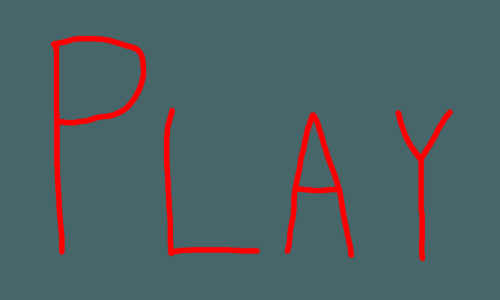
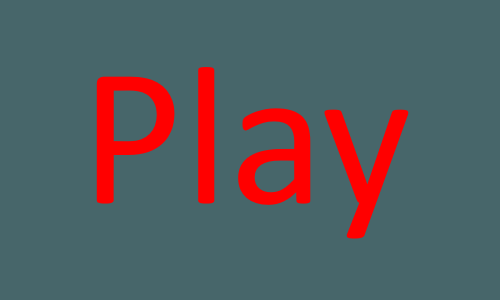
Pause Menu + Main Menu + Remade button assets

Changed region(s): [[0.39, 0.21, 0.93, 0.87], [0.09, 0.12, 0.54, 0.87]]

diff --git a/source/World.cpp b/source/World.cpp
@@ -12,14 +12,18 @@ World::World(Engine& eng, VolumeManager& vm, Clock& clock)
 	highscoreAmount(0),
 	limitedArrowsAmount(5),
 	gameOver(false),
+	activePauseMenu(false),
 	activeMainMenu(true),
 	resetKeyEnabled(false)
 {
 	arrowTexture.loadFromFile("Assets/Arrow.png");
 	backgroundTexture.loadFromFile("Assets/RedBackground.png");
+	pauseBackgroundTexture.loadFromFile("Assets/PauseMenuBackground.png");
 	retryTexture.loadFromFile("Assets/RetryButton.png");
 	quitTexture.loadFromFile("Assets/QuitButton.png");
 	playTexture.loadFromFile("Assets/PlayButton.png");
+	mainMenuTexture.loadFromFile("Assets/MainMenuButton.png");
+	resumeTexture.loadFromFile("Assets/ResumeButton.png");
 	playerHappy.loadFromFile("Assets/PlayerHappy.png");
 	playerSad.loadFromFile("Assets/PlayerSad.png");
 	enemyHappy.loadFromFile("Assets/EnemyHappy.png");
@@ -80,26 +84,43 @@ World::World(Engine& eng, VolumeManager& vm, Clock& clock)
 
 	// Create retrySprite
 	retrySprite.setTexture(retryTexture);
-	retrySprite.setScale(0.5, 0.5);
-	retrySprite.setPosition(370, 410);
+	retrySprite.setScale(0.45, 0.45);
+	retrySprite.setPosition(370, 510);
 
 	// Create quitSprite
 	quitSprite.setTexture(quitTexture);
-	quitSprite.setScale(0.5, 0.5);
-	quitSprite.setPosition(670, 410);
+	quitSprite.setScale(0.45, 0.45);
+	quitSprite.setPosition(790, 510);
 	#pragma endregion SetupGameOver
 
 	#pragma region SetupMainMenu
-	// Create retrySprite
+	// Create backgroundSprite
 	backgroundSprite.setTexture(backgroundTexture);
 	backgroundSprite.setScale(0.75, 0.75);
 	backgroundSprite.setPosition(0, 0);
 	
 	// Create playSprite
 	playSprite.setTexture(playTexture);
-	playSprite.setScale(0.5, 0.5);
-	playSprite.setPosition(370, 410);
+	playSprite.setScale(0.45, 0.45);
+	playSprite.setPosition(370, 510);
 	#pragma endregion SetupMainMenu
+
+	#pragma region SetupPauseMenu
+	// Create pauseBackgroundSprite
+	pauseBackgroundSprite.setTexture(pauseBackgroundTexture);
+	pauseBackgroundSprite.setScale(0.667, 0.667);
+	pauseBackgroundSprite.setPosition(0, 0);
+
+	// Create mainMenuSprite
+	mainMenuSprite.setTexture(mainMenuTexture);
+	mainMenuSprite.setScale(0.45, 0.45);
+	mainMenuSprite.setPosition(260, 510);
+
+	// Create resumeSprite
+	resumeSprite.setTexture(resumeTexture);
+	resumeSprite.setScale(0.45, 0.45);
+	resumeSprite.setPosition(315, 340);
+	#pragma endregion SetupPauseMenu
 
 	// Creating World
 	b2WorldDef worldDef = b2DefaultWorldDef();
@@ -376,7 +397,7 @@ void World::Update()
 	}
 
 	// Arrow Spawning
-	if (!gameOver && !activeMainMenu)
+	if (!gameOver && !activePauseMenu && !activeMainMenu)
 	{
 		if (sf::Mouse::isButtonPressed(sf::Mouse::Left))
 		{
@@ -569,6 +590,84 @@ void World::Reset()
 	enemy.setTexture(enemyHappy);
 }
 
+void World::PauseMenu()
+{
+	sf::Vector2i mousePixelPos = sf::Mouse::getPosition(engine.window);
+	sf::Vector2f mousePos = engine.window.mapPixelToCoords(mousePixelPos);
+
+	engine.window.draw(pauseBackgroundSprite);
+	engine.window.draw(mainMenuSprite);
+	engine.window.draw(resumeSprite);
+	engine.window.draw(quitSprite);
+
+	// Waits 0.1s before the play button works
+	if (clock.WaitForReset(0.1f))
+	{
+		activePauseMenu = false;
+		clock.StopClock();
+	}
+
+	// Main Menu Button
+	if (mainMenuSprite.getGlobalBounds().contains(mousePos))
+	{
+		mainMenuSprite.setColor(sf::Color::Green);
+		if (sf::Mouse::isButtonPressed(sf::Mouse::Left))
+		{
+			if (!keyPressedLeftClick)
+			{
+				activePauseMenu = false;
+				activeMainMenu = true;
+				keyPressedLeftClick = true;
+			}
+		}
+		else
+		{
+			keyPressedLeftClick = false;
+		}
+	}
+	else
+	{
+		mainMenuSprite.setColor(sf::Color::Red);
+	}
+
+	// Resume Button
+	if (resumeSprite.getGlobalBounds().contains(mousePos))
+	{
+		resumeSprite.setColor(sf::Color::Green);
+		if (sf::Mouse::isButtonPressed(sf::Mouse::Left))
+		{
+			if (!keyPressedLeftClick)
+			{
+				clock.StartClock();
+				keyPressedLeftClick = true;
+			}
+		}
+		else
+		{
+			keyPressedLeftClick = false;
+		}
+	}
+	else
+	{
+		resumeSprite.setColor(sf::Color::Red);
+	}
+
+	// Quit Button
+	if (quitSprite.getGlobalBounds().contains(mousePos))
+	{
+		quitSprite.setColor(sf::Color::Green);
+		if (sf::Mouse::isButtonPressed(sf::Mouse::Left))
+		{
+			std::cout << "Quit Game" << "\n";
+			engine.window.close();
+		}
+	}
+	else
+	{
+		quitSprite.setColor(sf::Color::Red);
+	}
+}
+
 void World::MainMenu()
 {
 	sf::Vector2i mousePixelPos = sf::Mouse::getPosition(engine.window);
@@ -624,22 +723,23 @@ void World::MainMenu()
 	}
 }
 
-void World::ToggleMainMenu()
+void World::ToggleMenu()
 {
 	if (sf::Keyboard::isKeyPressed(sf::Keyboard::Escape))
 	{
 		if (!keyPressedEscape)
 		{
-			if (activeMainMenu)
+			if (activePauseMenu || activeMainMenu)
 			{
-				std::cout << "Main Menu Disabled" << "\n";
+				std::cout << "Menu Disabled" << "\n";
+				activePauseMenu = false;
 				activeMainMenu = false;
 				keyPressedEscape = true;
 			}
 			else
 			{
-				std::cout << "Main Menu Enabled" << "\n";
-				activeMainMenu = true;
+				std::cout << "Pause Menu Enabled" << "\n";
+				activePauseMenu = true;
 				keyPressedEscape = true;
 			}
 		}

diff --git a/source/World.h b/source/World.h
@@ -19,8 +19,9 @@ public:
 	void SpawnArrow();
 	void DestroyArrows();
 	void Reset();
+	void PauseMenu();
 	void MainMenu();
-	void ToggleMainMenu();
+	void ToggleMenu();
 
 	// worldId is used to spawn body's in the world
 	b2WorldId worldId;
@@ -35,7 +36,8 @@ public:
 	sf::Vector2f bowPos;
 	float bowRotation;
 
-	// Main Menu
+	// Active Menu
+	bool activePauseMenu;
 	bool activeMainMenu;
 
 private:
@@ -119,4 +121,12 @@ private:
 	sf::Texture playTexture;
 	sf::Sprite backgroundSprite;
 	sf::Texture backgroundTexture;
+
+	// Pause Menu
+	sf::Sprite pauseBackgroundSprite;
+	sf::Texture pauseBackgroundTexture;
+	sf::Sprite mainMenuSprite;
+	sf::Texture mainMenuTexture;
+	sf::Sprite resumeSprite;
+	sf::Texture resumeTexture;
 };

diff --git a/source/Engine/Engine.cpp b/source/Engine/Engine.cpp
@@ -38,9 +38,13 @@ void Engine::LoopEngine()
 		window.clear();
 		window.draw(background);
 			
-		world.ToggleMainMenu();
+		world.ToggleMenu();
 
-		if (world.activeMainMenu)
+		if (world.activePauseMenu)
+		{
+			world.PauseMenu();
+		}
+		else if (world.activeMainMenu)
 		{
 			world.MainMenu();
 		}
